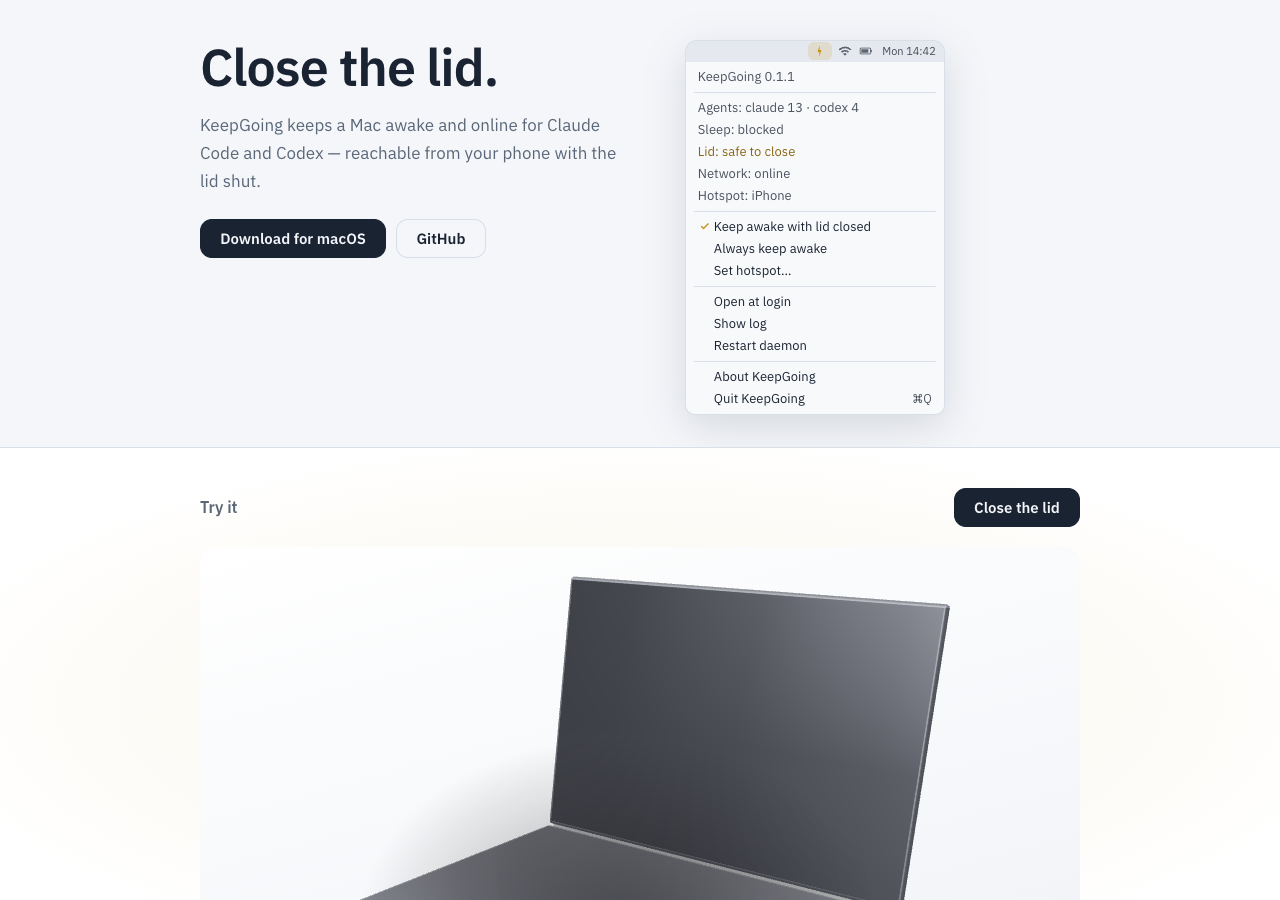
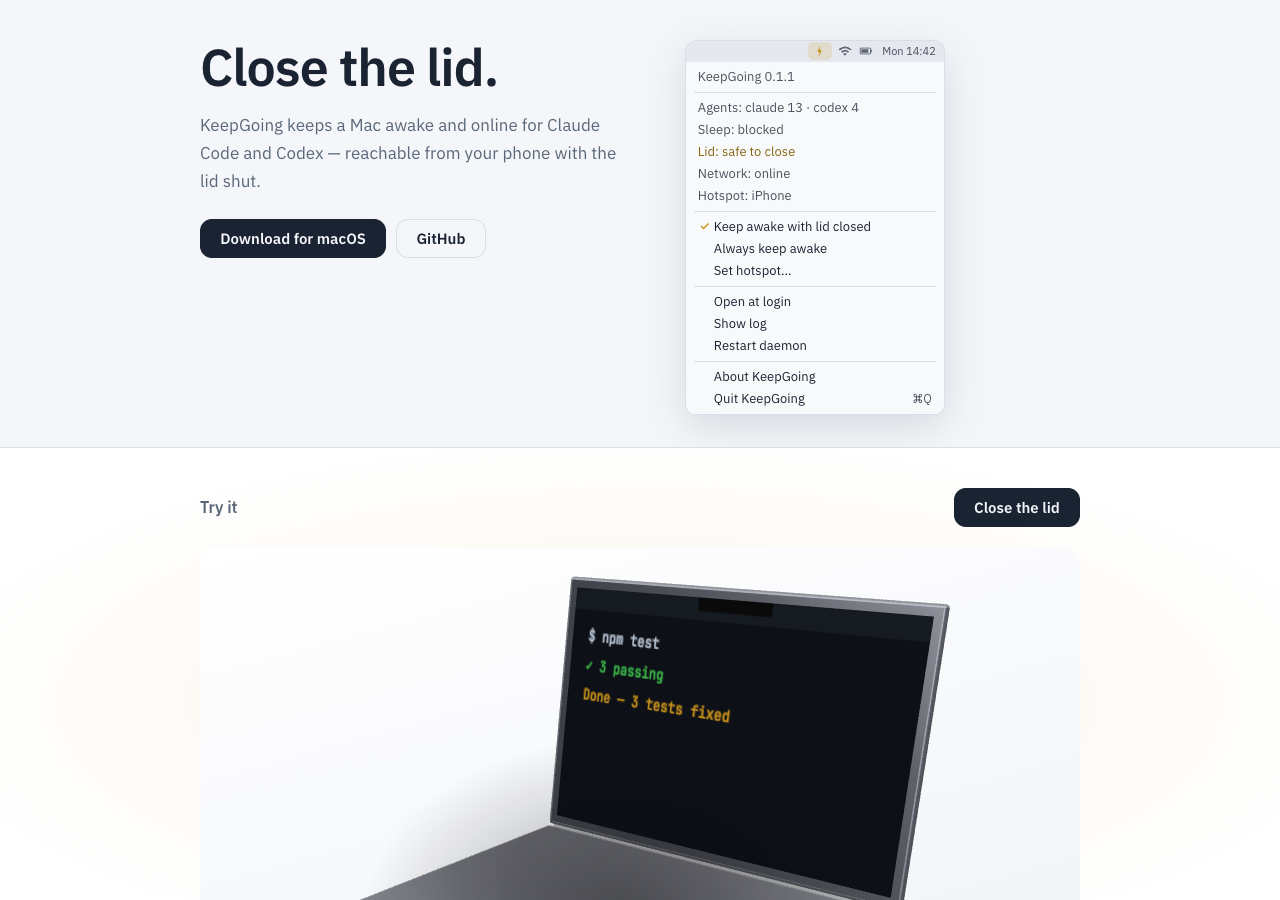
fix: G3 screen texture — parent to lid inner face
Screen plane was embedded in the lid shell; attach to lid inner face
with polygon offset so the 1024×640 terminal renders visibly.

Changed region(s): [[0.4375, 0.6533, 0.75, 0.9956]]

diff --git a/site/demo-3d.js b/site/demo-3d.js
@@ -276,13 +276,16 @@ export function initLaptopDemo(canvas, onClosedChange, onFirstFrame) {
   const screenMat = new THREE.MeshBasicMaterial({
     map: screenTex,
     toneMapped: false,
-    side: THREE.FrontSide
+    side: THREE.FrontSide,
+    polygonOffset: true,
+    polygonOffsetFactor: -4,
+    polygonOffsetUnits: -4
   });
   const screen = new THREE.Mesh(new THREE.PlaneGeometry(2.84, 1.79), screenMat);
-  screen.position.set(0, 0.001, 0.976);
+  screen.position.set(0, -0.024, 0);
   screen.rotation.x = Math.PI / 2;
-  screen.renderOrder = 2;
-  lidGroup.add(screen);
+  screen.renderOrder = 5;
+  lid.add(screen);
 
   if (typeof console !== 'undefined' && console.log) {
     console.log('[demo-3d] screen texture', screenTex.image.width, 'x', screenTex.image.height);
@@ -294,10 +297,10 @@ export function initLaptopDemo(canvas, onClosedChange, onFirstFrame) {
     new THREE.PlaneGeometry(0.22, 0.04),
     new THREE.MeshBasicMaterial({ color: 0x0a0a0a, toneMapped: false, side: THREE.FrontSide })
   );
-  notch.position.set(0, 0.002, 0.22);
+  notch.position.set(0, -0.023, -0.75);
   notch.rotation.x = Math.PI / 2;
-  notch.renderOrder = 3;
-  lidGroup.add(notch);
+  notch.renderOrder = 6;
+  lid.add(notch);
 
   const hingeGlowLine = makeRadialSprite(0.4, 0, '200,148,26');
   hingeGlowLine.scale.set(3.2, 0.3, 1);

diff --git a/site/index.html b/site/index.html
@@ -223,7 +223,7 @@ SleepDisabled 1                    # still running, on battery</code></pre>
       <span class="foot-version">Version 0.1.1</span>
     </div>
   </footer>
-  <script src="demo.js?v=10" defer></script>
+  <script src="demo.js?v=11" defer></script>
   <script defer src="/_vercel/insights/script.js"></script>
 </body>
 </html>

diff --git a/site/demo.js b/site/demo.js
@@ -15,7 +15,7 @@
   var loading = false;
   var modPromise = null;
   var initPromise = null;
-  var DEMO_3D_VER = '10';
+  var DEMO_3D_VER = '11';
   var useFallback = reduced || !hasWebGL();
 
   function hasWebGL() {
